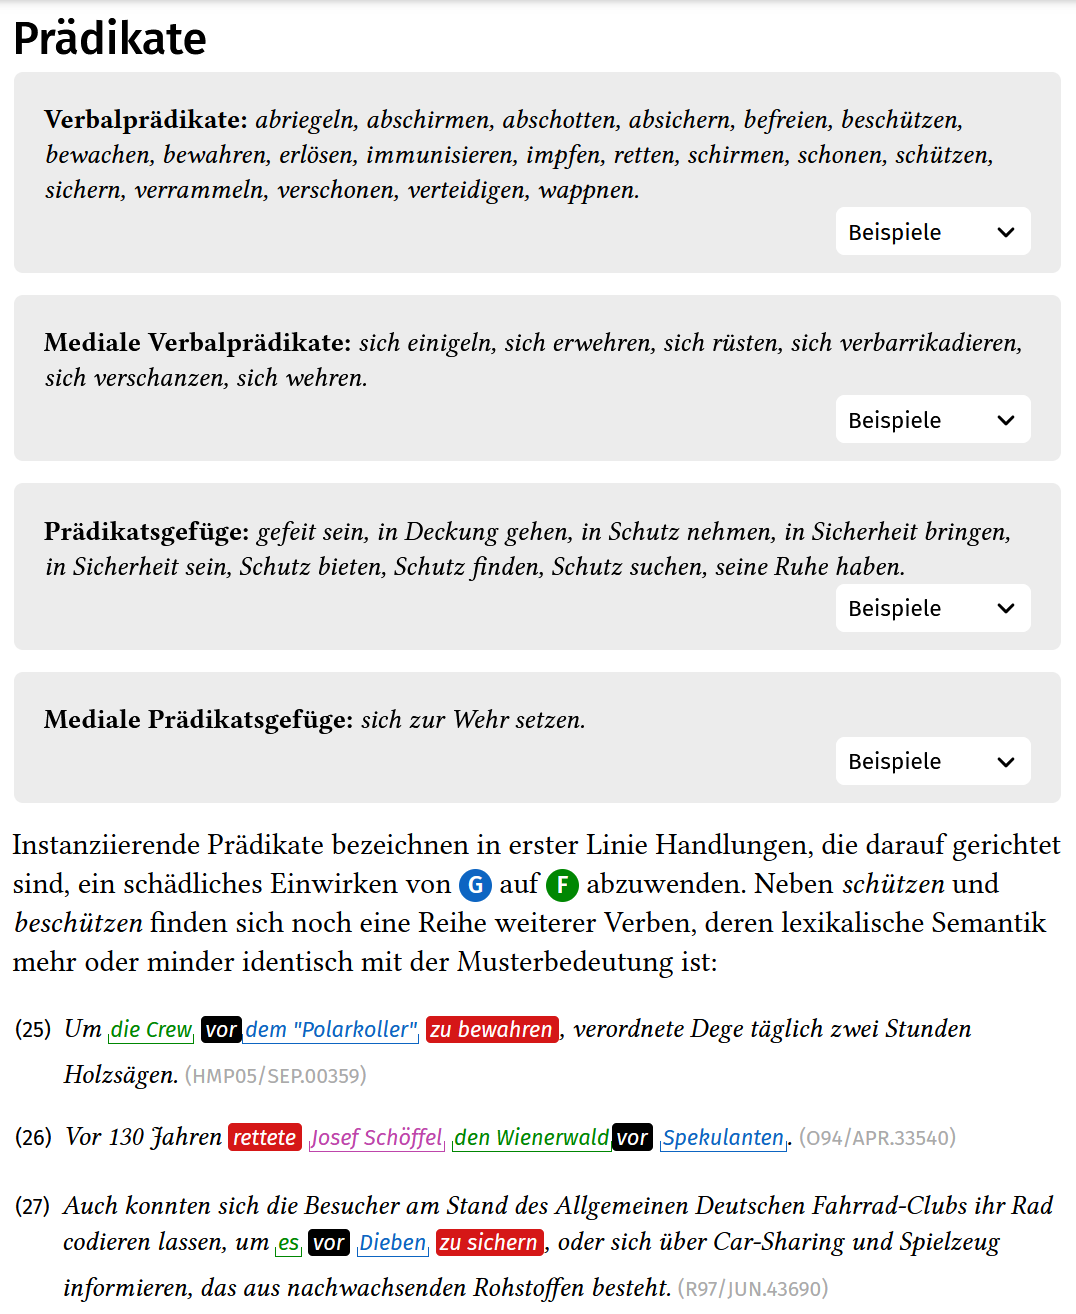
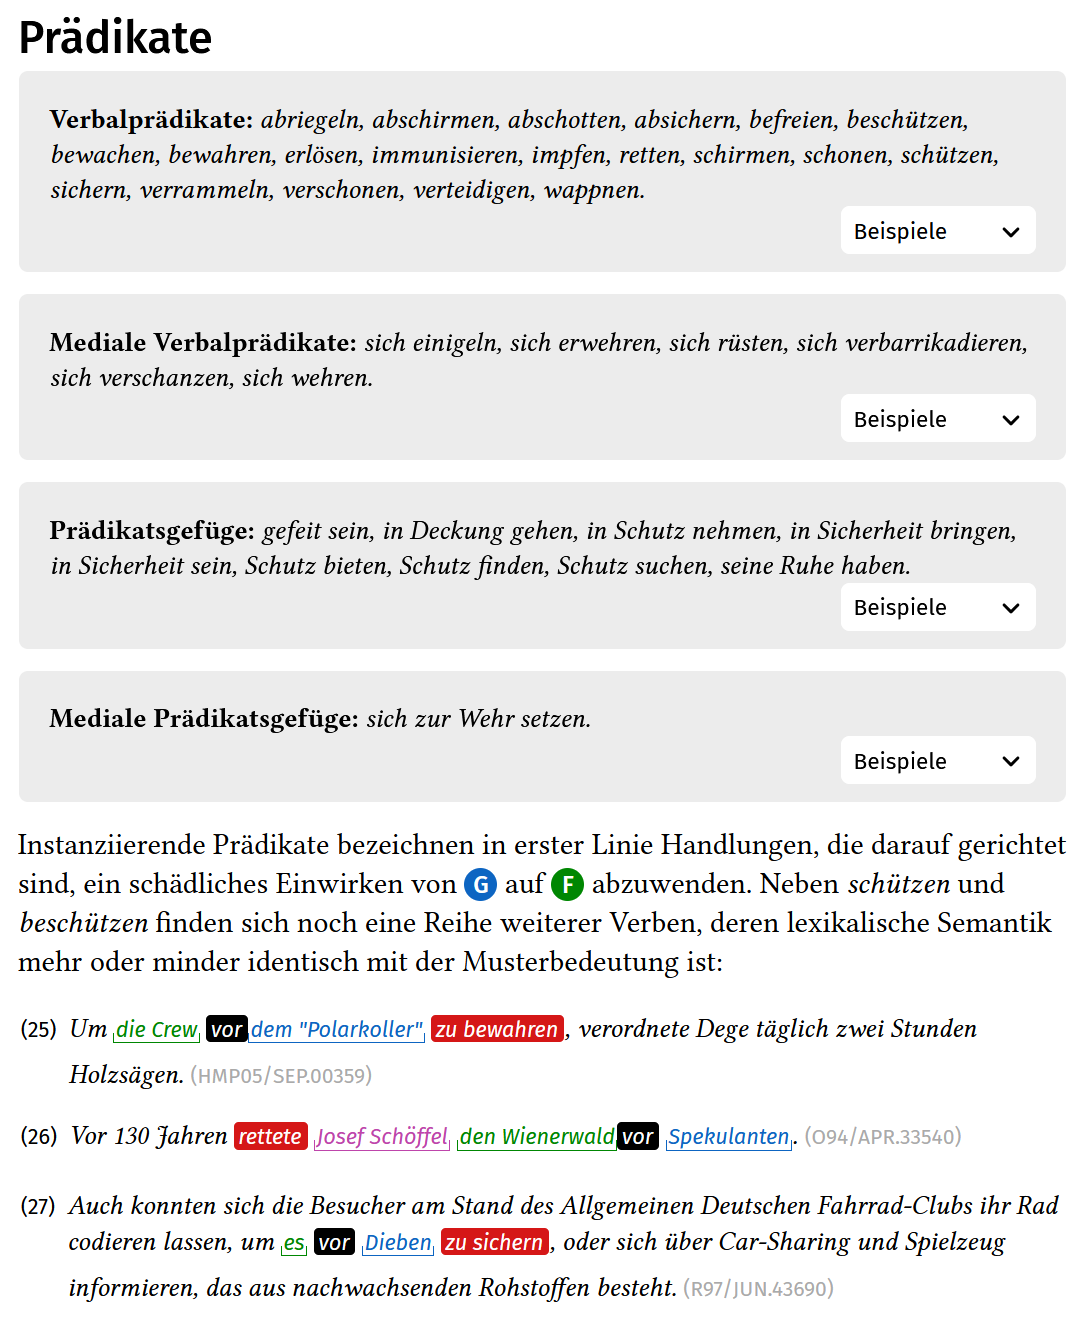
Screenshots map eingebunden und Änderungen von Beatrice eingarbeitet

diff --git a/pages/datatypes/narration.vue b/pages/datatypes/narration.vue
@@ -68,7 +68,7 @@ export default {
             <NuxtImage src="/img/datatypes/narration/prepcon_kon_muster_div.png" alt="Beispielgrafik 3" />
           </div>
           <div class="caption">
-            <ScreenshotLink to="http://uwv.ids-mannheim.de/prepcon/modul3/muster/mitGenugtuung.html" /> c Kommentar zu lexikalischen Erweiterung <em>mit einer gewissen Genugtuung</em> des Muster
+            <ScreenshotLink to="http://uwv.ids-mannheim.de/prepcon/modul3/muster/mitGenugtuung.html" />Kommentar zur lexikalischen Erweiterung <em>mit einer gewissen Genugtuung</em> des Muster
             <em>mit X Genugtuung</em> im Artikel „mit Genugtuung – con satisfacción“ (Divergenz)
           </div>
           <div class="exampleImg">
@@ -88,13 +88,12 @@ export default {
         </p>
 <template #explain>
           <div class="exampleImg">
-           <NuxtImage src="" alt="Beispielgrafik 1" /> 
+           <NuxtImage src="/img/datatypes/narration/map_respekt.png" alt="Beispielgrafik 1" /> 
           </div>
           <div class="caption">
             <ScreenshotLink to="https://www.owid.de/plus/map/article/vor/respekt" />Narrative Beschreibungen für das Muster RESPEKT
           </div>
         </template>
-        <!-- TODO: MAP -->
       </compare-item>
 
       <compare-item value="3" rkey="SPRW">

diff --git a/pages/datatypes/category.vue b/pages/datatypes/category.vue
@@ -133,7 +133,7 @@ export default {
         </p>
 <template #explain>
           <div class="exampleImg">
-            <NuxtImage src="" alt="Beispielgrafik 1" />
+            <NuxtImage src="/img/datatypes/matches/map_belege_medial.png" alt="Beispielgrafik 1" />
           </div>
           <div class="caption">
             <ScreenshotLink to="https://www.owid.de/plus/map/kwic" />Belegangabe zu Kategorie Medialkonstruktion</div>
@@ -248,7 +248,7 @@ export default {
             <NuxtImage src="/img/datatypes/categories/verlaufsformen_tabelle.png" alt="Beispielgrafik 1" />
           </div>
           <div class="caption">
-            <ScreenshotLink to="https://www.owid.de/artikel/402991" />Kategoriale Label mit Einstellung ‚Inkorporiertes Objekt (INK): ja‘ in durchsuch- und
+            <ScreenshotLink to="https://www.owid.de/progdb?scrollToVerb=j%C3%A4ten" />Kategoriale Label mit Einstellung ‚Inkorporiertes Objekt (INK): ja‘ in durchsuch- und
             sortierbarer Tabelle (Rubrik „Erweiterte Suche“)
           </div>
         </template>

diff --git a/pages/datatypes/fields.vue b/pages/datatypes/fields.vue
@@ -77,12 +77,12 @@ export default {
 
         <template #explain>
           <div class="exampleImg">
-            <NuxtImage src="" alt="Beispielgrafik 1" />
+            <NuxtImage src="/img/datatypes/fields/map_respekt_predicates.png" alt="Beispielgrafik 1" />
           </div>
           <div class="caption">
-            <ScreenshotLink to="https://www.owid.de/plus/map/article/nach/entsprechen/assoziation" />Einteilung musterinstanziierender Prädikate nach strukturellem Typ</div>
+            <ScreenshotLink to="https://www.owid.de/plus/map/article/vor/respekt#predicates" />Einteilung musterinstanziierender Prädikate nach strukturellem Typ</div>
              <div class="exampleImg">
-            <NuxtImage src="" alt="Beispielgrafik 2" />
+            <NuxtImage src="/img/datatypes/fields/map_visualisierung.png" alt="Beispielgrafik 2" />
           </div>
           <div class="caption">
             <ScreenshotLink to="https://www.owid.de/plus/map/article/vor/bedrohen" />Feldangabe zur Muster-Familie BEDROHEN</div>
